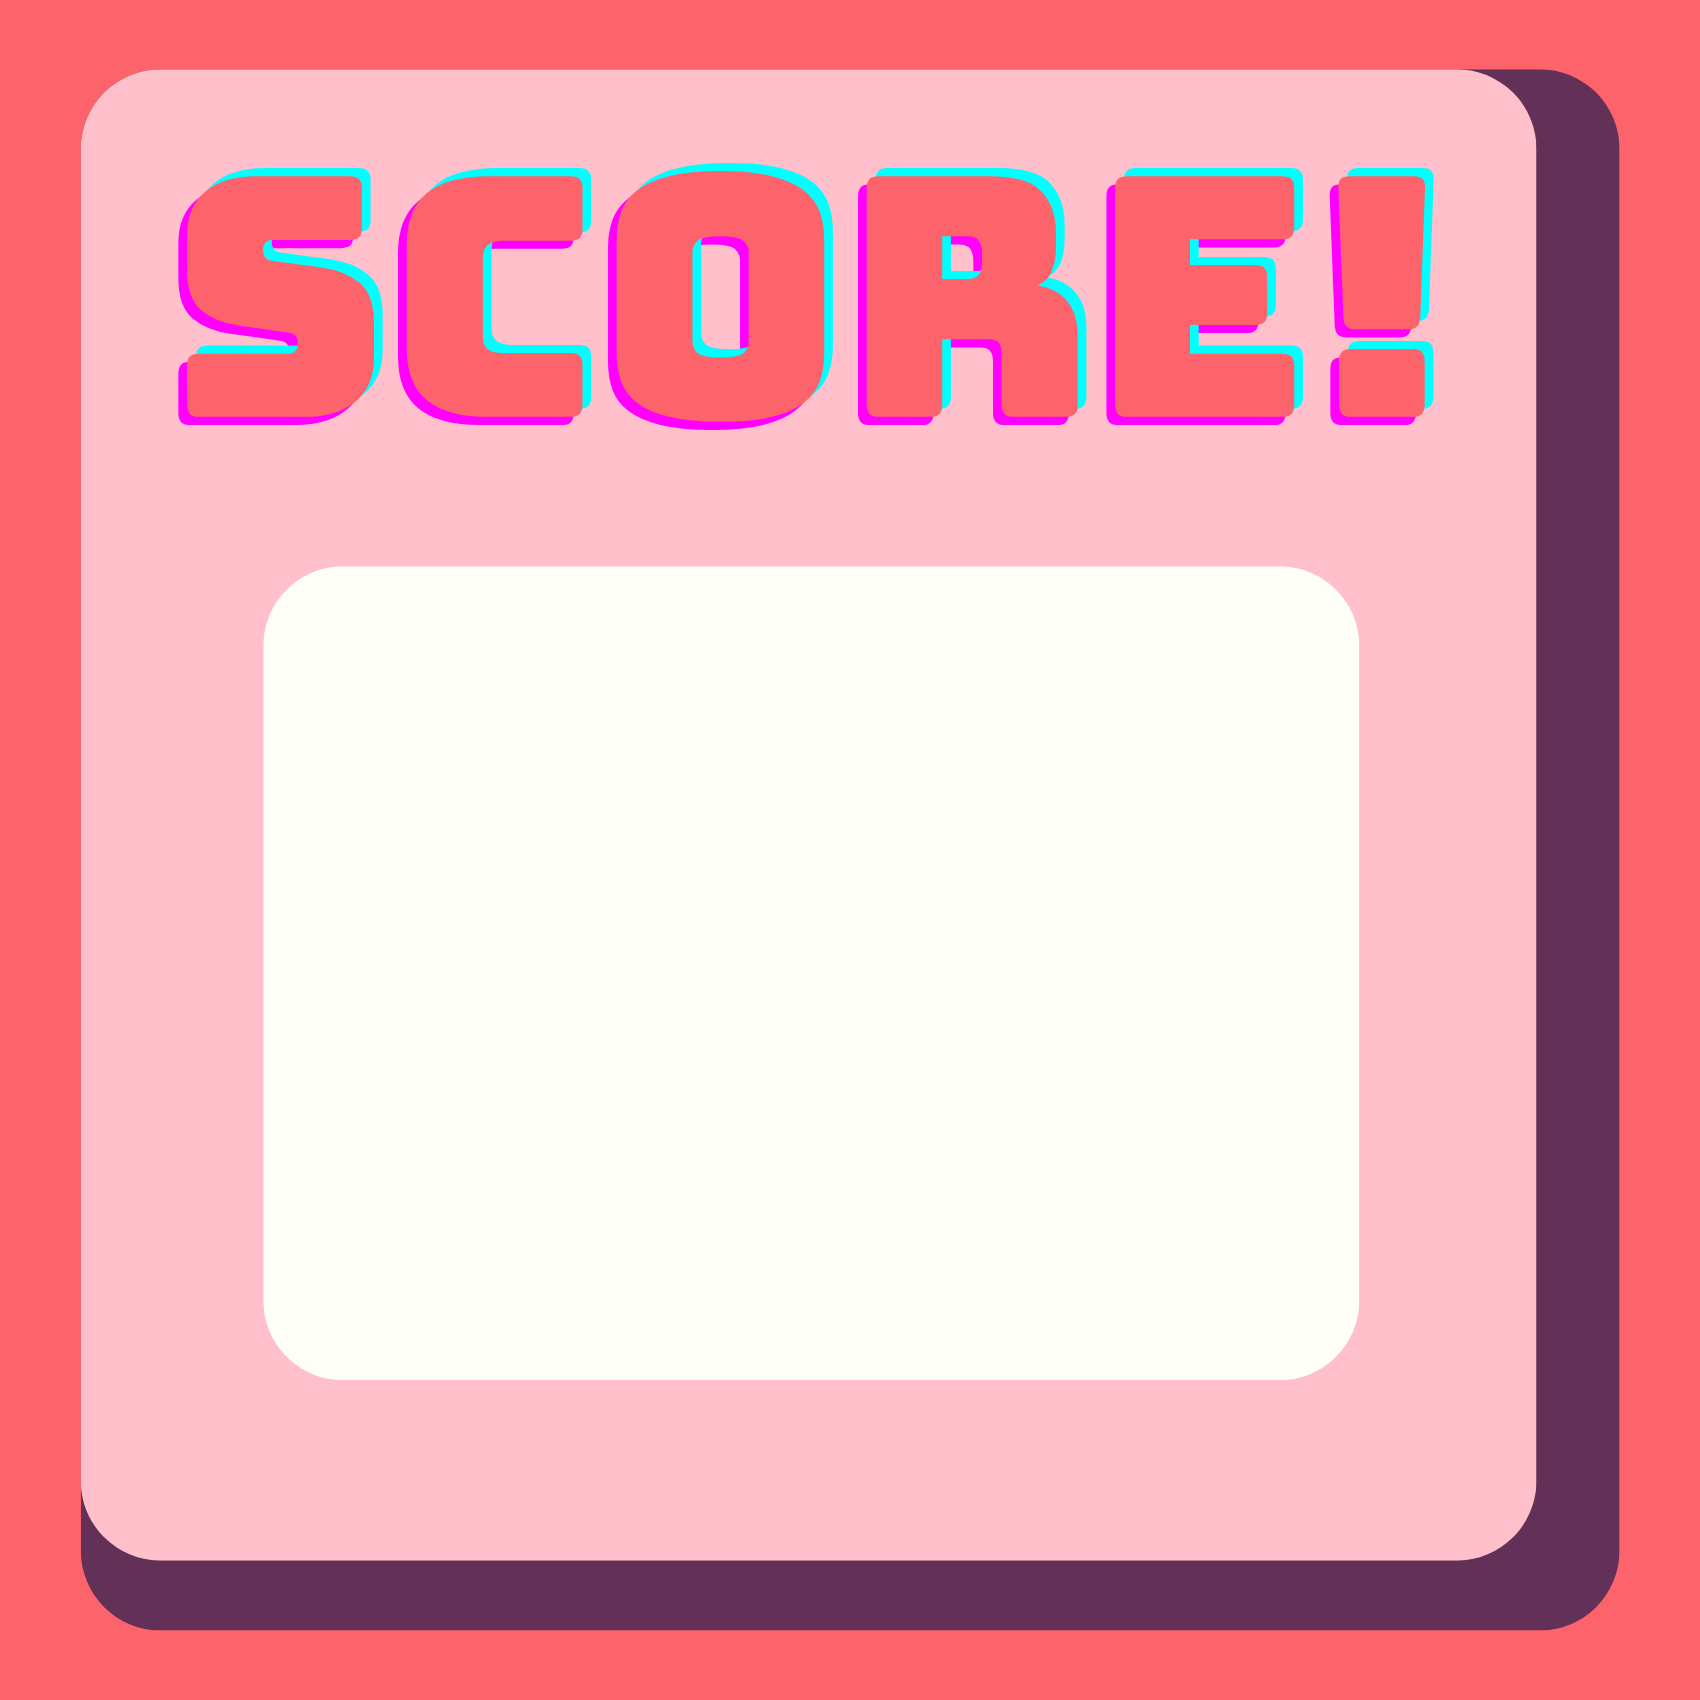
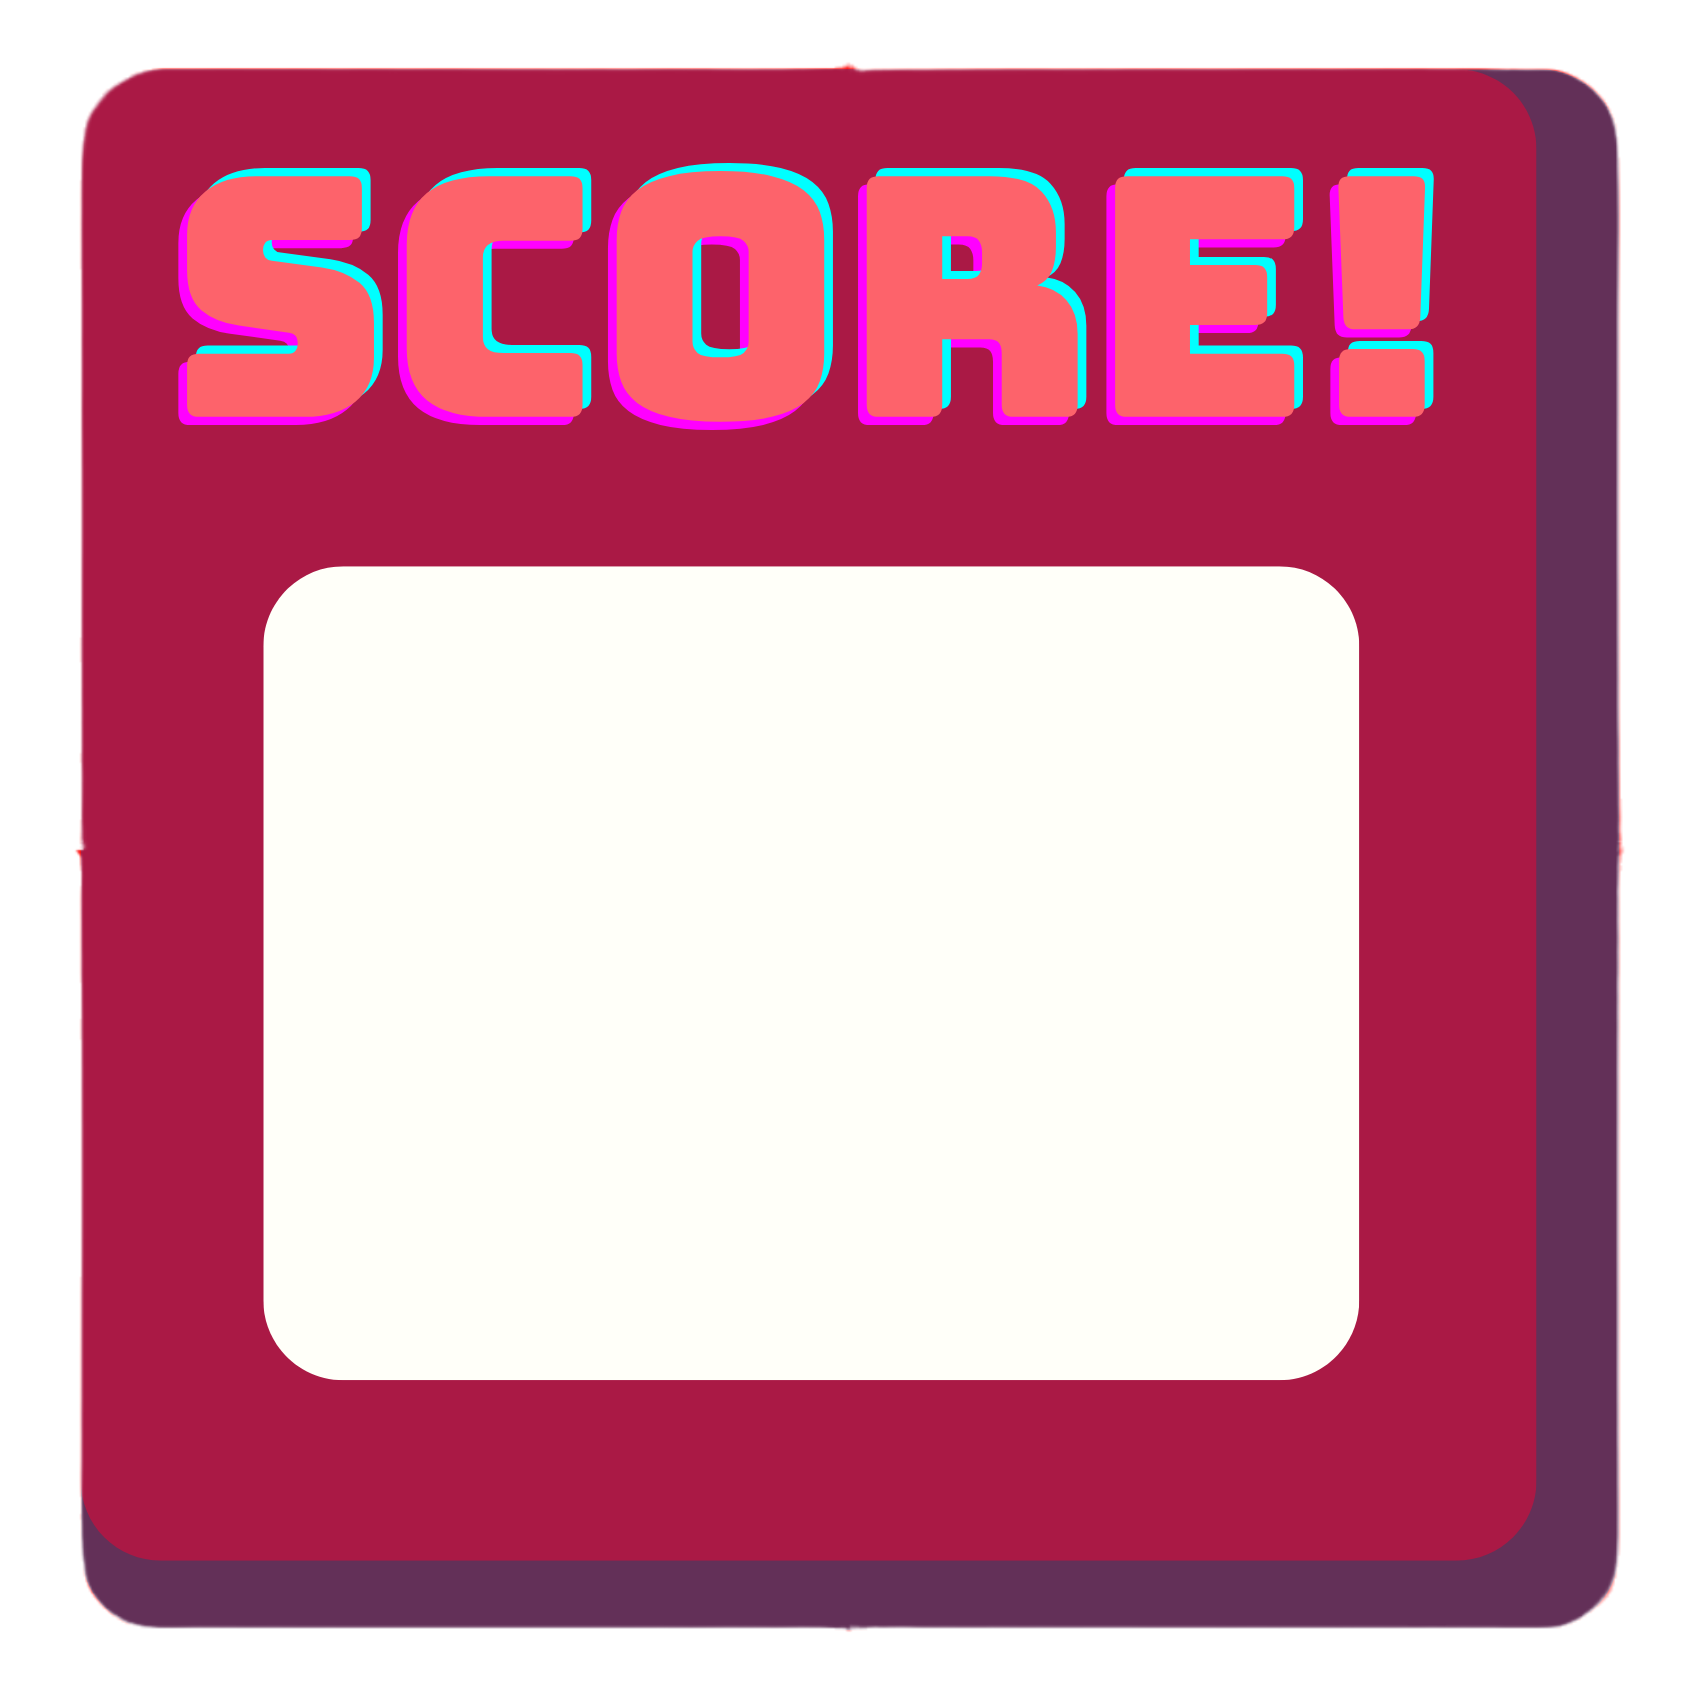
updated scoreboard, added audio pero pangit quality

diff --git a/damath/scoreboard.py b/damath/scoreboard.py
@@ -1,8 +1,12 @@
-from .constants import LIGHT_BLUE, RED, WHITE, BLACK, DARKER_BLUE, DARKER_RED, SCOREBOARD_WIDTH, SCOREBOARD_HEIGHT, SCOREBOARD_COLOR
+from .constants import LIGHT_BLUE, RED, WHITE, BLACK, DARKER_BLUE, DARKER_RED, SCOREBOARD_WIDTH, SCOREBOARD_HEIGHT, \
+    SCOREBOARD_BLUE, SCOREBOARD_RED, SCOREBOARD_COLOR
 import pygame, operator
 from ui_class.fade import fade
 
 class Scoreboard:
+
+    TXT_OFFSET = 10
+
     def __init__(self, surface):
         self.width = SCOREBOARD_WIDTH
         self.height = SCOREBOARD_HEIGHT
@@ -12,34 +16,45 @@ class Scoreboard:
         self.player2_score = 0 #blue
 
     def draw(self):
+        
         self.surface.fill(SCOREBOARD_COLOR)
-        pygame.draw.rect(self.surface, LIGHT_BLUE, (10, 10, self.width-20, self.height//2-10))
-        pygame.draw.rect(self.surface, RED, (10, self.height//2+10, self.width-20, self.height//2-20))
+        self.surface.set_colorkey(SCOREBOARD_COLOR)
+        #pygame.draw.rect(self.surface, LIGHT_BLUE, (10, 10, self.width-20, self.height//2-10))
+        #pygame.draw.rect(self.surface, RED, (10, self.height//2+10, self.width-20, self.height//2-20))
+        self.surface.blit(SCOREBOARD_BLUE, (0, 0))
+        self.surface.blit(SCOREBOARD_RED, (0, 251))
 
     def update(self, turn):
 
         font = pygame.font.Font(None, 78) 
 
-        if turn == RED:
-            red_box = pygame.draw.rect(self.surface, DARKER_BLUE, (10, 10, self.width-20, self.height//2-10))
-            blue_box = pygame.draw.rect(self.surface, RED, (10, self.height//2+10, self.width-20, self.height//2-20))  
+        if turn == RED: 
+            red_box = pygame.Rect((10, 10+self.TXT_OFFSET, self.width-20, self.height//2-10))
+            blue_box = pygame.Rect((10, self.height//2+30, self.width-20, self.height//2-20))  
 
-            p1_score_surface = font.render(str(round(self.player1_score, 2)), True, WHITE) #FFFFFF
+            self.surface.blit(SCOREBOARD_BLUE, (0, 0))
+            self.surface.blit(SCOREBOARD_RED, (0, 251))
+
+            p1_score_surface = font.render(str(round(self.player1_score, 2)), True, RED) #FFFFFF
             p1_score_rect = p1_score_surface.get_rect(center=blue_box.center)
             self.surface.blit(p1_score_surface, p1_score_rect) 
 
-            p2_score_surface = font.render(str(round(self.player2_score, 2)), True, BLACK) #FFFFFF
+            p2_score_surface = font.render(str(round(self.player2_score, 2)), True, LIGHT_BLUE) #FFFFFF
             p2_score_rect = p2_score_surface.get_rect(center=red_box.center)
             self.surface.blit(p2_score_surface, p2_score_rect)
+
         else:
-            blue_box = pygame.draw.rect(self.surface, DARKER_RED, (10, self.height//2+10, self.width-20, self.height//2-20))
-            red_box = pygame.draw.rect(self.surface, LIGHT_BLUE, (10, 10, self.width-20, self.height//2-10))    
+            blue_box = pygame.Rect((10, self.height//2+30, self.width-20, self.height//2-20))
+            red_box = pygame.Rect((10, 10+self.TXT_OFFSET, self.width-20, self.height//2-10))  
 
-            p2_score_surface = font.render(str(round(self.player2_score, 2)), True, WHITE) #FFFFFF
+            self.surface.blit(SCOREBOARD_BLUE, (0, 0))
+            self.surface.blit(SCOREBOARD_RED, (0, 251))
+
+            p2_score_surface = font.render(str(round(self.player2_score, 2)), True, LIGHT_BLUE) #FFFFFF
             p2_score_rect = p2_score_surface.get_rect(center=red_box.center)
             self.surface.blit(p2_score_surface, p2_score_rect)
 
-            p1_score_surface = font.render(str(round(self.player1_score, 2)), True, BLACK) #FFFFFF
+            p1_score_surface = font.render(str(round(self.player1_score, 2)), True, RED) #FFFFFF
             p1_score_rect = p1_score_surface.get_rect(center=blue_box.center)
             self.surface.blit(p1_score_surface, p1_score_rect) 
         

diff --git a/main.py b/main.py
@@ -25,7 +25,7 @@ def anim_dim():
 # --------- initialization ---------
 pygame.init()
 pygame.font.init()
-pygame.mixer.init()
+pygame.mixer.init(44100, -16, 2, 2048)
 
 # --------- defining constants / objects for screen  ---------
 
@@ -204,7 +204,7 @@ board_surface = pygame.Surface((BOARD_WIDTH+BOARD_OFFSET, BOARD_HEIGHT+BOARD_OFF
 board_rect = pygame.Rect(375, 25, BOARD_WIDTH+BOARD_OFFSET, BOARD_HEIGHT+BOARD_OFFSET) #creating a Rect object to save the position & size of the board
 
 scoreboard_surface = pygame.Surface((SCOREBOARD_WIDTH, SCOREBOARD_HEIGHT))
-scoreboard_rect = pygame.Rect(45, 125, SCOREBOARD_WIDTH, SCOREBOARD_HEIGHT)
+scoreboard_rect = pygame.Rect(68, 125, SCOREBOARD_WIDTH, SCOREBOARD_HEIGHT)
 scoreboard = Scoreboard(scoreboard_surface)
 
 big_blue_chip = SpinningChip(screen, 'blue')
@@ -257,13 +257,14 @@ class Transition:
         self.transition = transition_list
         self.frame = 0
         self.finished = False
-    
+
     def play(self):
+
         if self.frame == len(self.transition)-1:
             self.finished = True
         else:
             self.frame += 1
-
+ 
         self.screen.blit(self.transition[self.frame], (0, 0))
 
     def reset(self):
@@ -332,6 +333,8 @@ def main_menu() :
         screen.blit(TITLE, (SCREEN_WIDTH//2-(TITLE.get_width()//2), SCREEN_HEIGHT//2-(TITLE.get_height()//(1.25))))
 
         if main_play_trans:
+            sfx = pygame.mixer.Sound('audio/transition_in.wav')
+            sfx.play()
             transition_in.play()
             if transition_in.get_finished():
                 start_game()
@@ -491,6 +494,8 @@ def start_game():
         screen.blit(scoreboard_surface, (scoreboard_rect.x, scoreboard_rect.y)) 
         return_btn.display_image() 
 
+        if not transition_out.get_finished():
+            pygame.mixer.Sound('audio/transition_out.wav').play()
         transition_out.play()    
 
         scoreboard.draw()
@@ -529,7 +534,6 @@ def options_menu(who_called_me):
                 sys.exit()
             if event.type == pygame.KEYDOWN:
                 if event.key == pygame.K_ESCAPE:
-                    fade(screen, SCREEN_WIDTH, SCREEN_HEIGHT)
                     running = False
                     pygame.display.update()
                 

diff --git a/damath/constants.py b/damath/constants.py
@@ -4,9 +4,12 @@ from ui_class.constants import BTN_COLOR
 BOARD_WIDTH = 620
 BOARD_HEIGHT = 620  
 
-SCOREBOARD_WIDTH = 225
-SCOREBOARD_HEIGHT = 550
+SCOREBOARD_WIDTH = 245
+SCOREBOARD_HEIGHT = 495
 SCOREBOARD_COLOR = BTN_COLOR
+
+SCOREBOARD_RED = pygame.transform.smoothscale(pygame.image.load('assets\SCOREBOARD_RED.png'), (250, 250))
+SCOREBOARD_BLUE = pygame.transform.smoothscale(pygame.image.load('assets\SCOREBOARD_BLUE.png'), (250, 250))
 
 ROWS, COLS = 8, 8
 SQUARE_SIZE = BOARD_WIDTH//COLS
